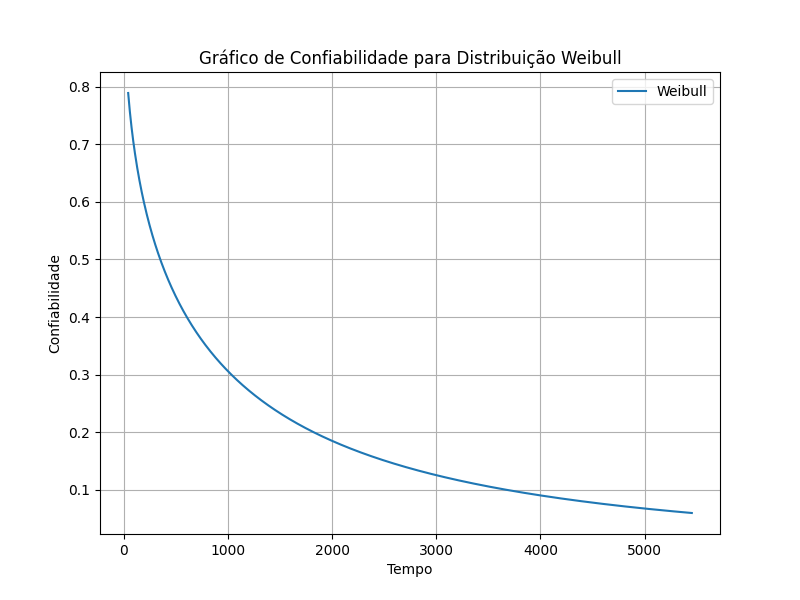
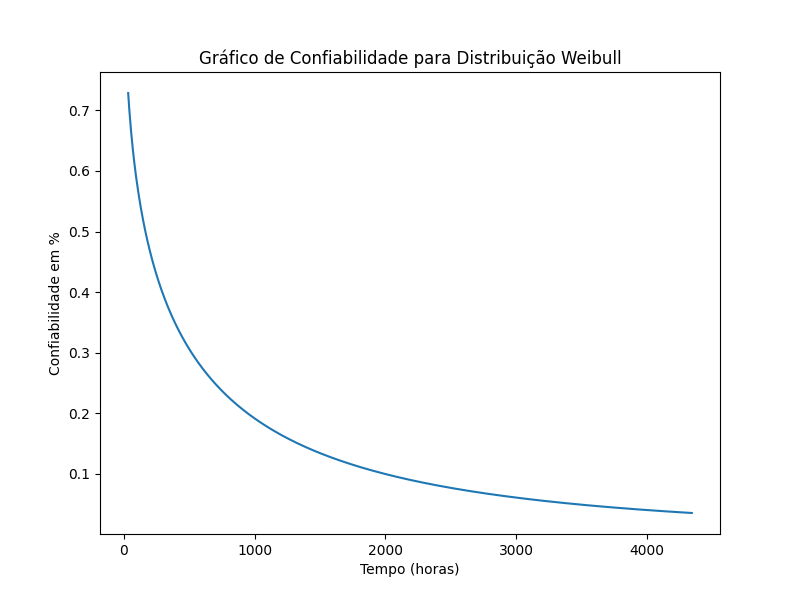
Add: time unit to confiability chart

diff --git a/model/model.py b/model/model.py
@@ -1,15 +1,20 @@
 import sqlite3
 import uuid
 
+
 class Model:
     def __init__(self):
-        self.conn = sqlite3.connect('components.db')
+        self.conn = sqlite3.connect("components.db")
         self.c = self.conn.cursor()
-        self.c.execute('''CREATE TABLE IF NOT EXISTS Component
-                          (id text PRIMARY KEY, tag text, description text)''')
-        self.c.execute('''CREATE TABLE IF NOT EXISTS Repair
+        self.c.execute(
+            """CREATE TABLE IF NOT EXISTS Component
+                          (id text PRIMARY KEY, tag text, description text)"""
+        )
+        self.c.execute(
+            """CREATE TABLE IF NOT EXISTS Repair
                           (repair_id text PRIMARY KEY, time_between_fails text, repair_time text, component_id text, tbf_unit text, rt_unit text,
-                          FOREIGN KEY(component_id) REFERENCES Component(id))''')
+                          FOREIGN KEY(component_id) REFERENCES Component(id))"""
+        )
 
     def register_component(self, tag, description):
         id = str(uuid.uuid4())
@@ -19,22 +24,38 @@ class Model:
 
     def register_repairs(self, repairs):
         for repair in repairs:
-            repair_id = repair['repair_id']
-            time_between_fails = repair['time_between_fails']
-            repair_time = repair['repair_time']
-            component_id = repair['component_id']
-            tbf_unit = repair['tbf_unit']
-            rt_unit = repair['rt_unit']
-            self.c.execute("INSERT INTO Repair VALUES (?, ?, ?, ?, ?, ?)", (repair_id, time_between_fails, repair_time, component_id, tbf_unit, rt_unit))
+            repair_id = repair["repair_id"]
+            time_between_fails = repair["time_between_fails"]
+            repair_time = repair["repair_time"]
+            component_id = repair["component_id"]
+            tbf_unit = repair["tbf_unit"]
+            rt_unit = repair["rt_unit"]
+            self.c.execute(
+                "INSERT INTO Repair VALUES (?, ?, ?, ?, ?, ?)",
+                (
+                    repair_id,
+                    time_between_fails,
+                    repair_time,
+                    component_id,
+                    tbf_unit,
+                    rt_unit,
+                ),
+            )
         self.conn.commit()
-    
+
     def select_tbf_data(self, component_id):
         data = []
+        tbf_unit = None
         try:
-            self.c.execute("SELECT time_between_fails FROM Repair WHERE component_id = ?", (component_id,))
+            self.c.execute(
+                "SELECT time_between_fails, tbf_unit FROM Repair WHERE component_id = ?",
+                (component_id,),
+            )
             rows = self.c.fetchall()
-            data = [row[0] for row in rows]
+            if rows:
+                data = [row[0] for row in rows]
+                tbf_unit = rows[0][1]
         except sqlite3.Error as e:
             print("Error while fetching TBF data:", e)
         finally:
-            return data
+            return data, tbf_unit

diff --git a/view/aderency_view.py b/view/aderency_view.py
@@ -4,25 +4,26 @@ from PyQt5.QtGui import QPixmap, QFont
 from PyQt5.QtCore import Qt, pyqtSignal
 import matplotlib.pyplot as plt
 
+
 class AderencyView(QWidget):
     shown = pyqtSignal()
 
     def __init__(self):
         super().__init__()
-        self.setWindowTitle('Teste de Aderência')
+        self.setWindowTitle("Teste de Aderência")
         self.setStyleSheet("background-color: #EDF1F7;")
-        
+
         # Configurar área de rolagem
         self.scroll_area = QScrollArea()
         self.scroll_area.setWidgetResizable(True)
-        
+
         # Widget central com layout vertical
         self.central_widget = QWidget()
         self.layout = QVBoxLayout(self.central_widget)
         self.layout.setAlignment(Qt.AlignTop)
-        
+
         self.scroll_area.setWidget(self.central_widget)
-        
+
         # Layout principal
         main_layout = QVBoxLayout()
         main_layout.addWidget(self.scroll_area)
@@ -37,15 +38,17 @@ class AderencyView(QWidget):
             # Adicionar título da imagem
             title_label = QLabel(self)
             title_label.setText(title)
-            title_label.setFont(QFont('Arial', 14))
+            title_label.setFont(QFont("Arial", 24))
+            # Set text color to black
+            title_label.setStyleSheet("color: black;")  # Apply inline style
             self.layout.addWidget(title_label, alignment=Qt.AlignCenter)
 
             if distribution_parameters:
                 # Adicionar parâmetros da distribuição
                 params_label = QLabel(self)
-                params_label.setText(f'Parâmetros: {distribution_parameters}')
+                params_label.setText(f"Parâmetros: {distribution_parameters}")
                 self.layout.addWidget(params_label, alignment=Qt.AlignCenter)
-            
+
             # Adicionar a imagem
             label = QLabel(self)
             pixmap = QPixmap(image_path)
@@ -53,3 +56,6 @@ class AderencyView(QWidget):
             self.layout.addWidget(label, alignment=Qt.AlignCenter)
         else:
             print(f"Imagem {image_path} não encontrada.")
+
+    def show(self):
+        super().showMaximized()

diff --git a/controller/testeDeAderenciaFinal.py b/controller/testeDeAderenciaFinal.py
@@ -30,7 +30,7 @@ def calculate_mse(observed, predicted):
     return mse
 
 
-def compare_distributions(fail_times):
+def compare_distributions(fail_times, tbf_unit):
     """
     Compara as distribuições Weibull, Gamma e Lognormal com base nas métricas (R², MAE e MSE)
     e retorna a distribuição que apresenta a maior aderência aos dados.
@@ -72,12 +72,13 @@ def compare_distributions(fail_times):
     # Identificar a distribuição com a maior aderência (maior R²)
     best_distribution = max(metrics, key=lambda k: metrics[k][0])
     print(f"A distribuição com maior aderência é: {best_distribution}")
+
     # Plotar o gráfico de confiabilidade para a distribuição escolhida
     if best_distribution == "Weibull":
         dist = Fit_Weibull_2P(
             failures=fail_times,
             right_censored=None,
-            show_probability_plot=True,
+            show_probability_plot=None,
             print_results=None,
             CI=0.90,
             quantiles=None,
@@ -91,7 +92,7 @@ def compare_distributions(fail_times):
         dist = Fit_Lognormal_2P(
             failures=fail_times,
             right_censored=None,
-            show_probability_plot=True,
+            show_probability_plot=None,
             print_results=None,
             CI=0.90,
             quantiles=None,
@@ -101,17 +102,15 @@ def compare_distributions(fail_times):
             force_sigma=None,
             downsample_scatterplot=None,
         )
+
     times = np.linspace(min(fail_times), max(fail_times), 1000)
     reliability = 1 - dist.distribution.CDF(times)
 
     plt.figure(figsize=(8, 6))
     plt.plot(times, reliability, label=best_distribution)
-    plt.xlabel("Tempo")
-    plt.ylabel("Confiabilidade")
+    plt.xlabel(f"Tempo ({tbf_unit})")
+    plt.ylabel("Confiabilidade em %")
     plt.title(f"Gráfico de Confiabilidade para Distribuição {best_distribution}")
-    plt.legend()
-    plt.grid(True)
-    plt.show()
     plt.savefig("best_distribution.png")
 
     return dist, best_distribution

diff --git a/controller/controller.py b/controller/controller.py
@@ -69,13 +69,24 @@ class Controller:
             self.aderency_view.show()
 
     def run_test_and_show_results(self):
-        fail_times = [
-            float(time) for time in self.model.select_tbf_data(self.get_component_id())
-        ]
-        if not fail_times:
+        time_between_fails, tbf_unit = self.model.select_tbf_data(
+            self.get_component_id()
+        )
+
+        # Verificar se há dados de tempo entre falhas
+        if not time_between_fails:
             print("Não há dados de tempo entre falhas para o componente.")
             return
-        dist, best_distribution = compare_distributions(fail_times)
+
+        # Verificar se a unidade de tempo está presente
+        if tbf_unit is None:
+            print("Não há unidade de tempo entre falhas disponível.")
+            return
+
+        print("TIME BETWEEN FAILS:", time_between_fails, "TBF UNIT:", tbf_unit)
+
+        fail_times = [float(time) for time in time_between_fails]
+        dist, best_distribution = compare_distributions(fail_times, tbf_unit)
         if best_distribution == "Weibull":
             p1 = dist.alpha
             p2 = dist.beta
